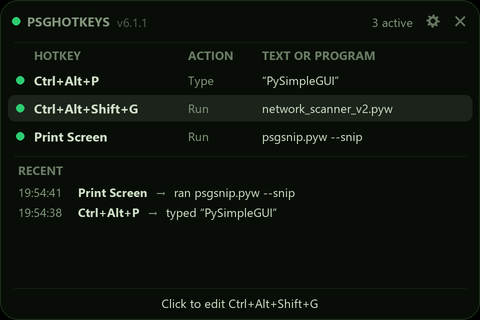
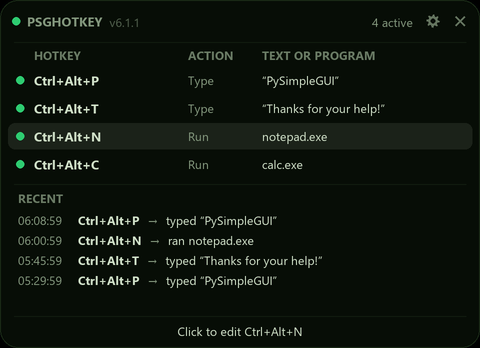
New screenshots

diff --git a/psghotkey/psghotkey.py b/psghotkey/psghotkey.py
@@ -3,7 +3,7 @@ import keyboard
 import ctypes
 import socket, threading, time
 import tkinter as tk
-import os, shlex, sys
+import os, shlex, sys, tempfile
 import base64, io, math, traceback
 from collections import deque
 from typing import List, Any, Dict, ClassVar
@@ -43,6 +43,7 @@ r"""
     to edit it.  Right-click for the menu:  Hotkeys..., Theme (the widgets' 32), Brightness..., Edit Me, Version, Exit.
     The tray icon:  click = show / hide the card,  right-click = the same menu.  Closing the card (its x or Esc) minimizes it to the tray
     (right-click > Minimize to tray when closed turns that off).  You can add your own items to the menu in make_menu() and handle them in the event loop.
+    psghotkey --demo shows example hotkeys, for a screenshot - it registers nothing, leaves your settings alone and doesn't stop a running psghotkey.
 
     On Windows each hotkey is registered with Windows itself (RegisterHotKey), so Windows does the matching, the key combination is
     swallowed instead of reaching the program underneath, and there is no keyboard hook for Windows to silently drop after a sleep,
@@ -129,6 +130,8 @@ Changelog since last major release
                         Only the hotkey entries are rewritten now.
 6.1.1   03-Nov-2026     Claude: A program that can't be launched shows in RECENT in red (it was only printed, and a .pyw has no console).
                         main() shows a crash with popup_error_with_traceback.  Right-click > Versions is Version.
+6.1.1   04-Nov-2026     Claude: --demo shows example hotkeys and a made-up RECENT list, for screenshots: it registers nothing, keeps its settings in
+                        the temp folder (your psghotkey.json isn't touched), has no tray icon, and a running psghotkey keeps running.
 """
 
 
@@ -141,6 +144,10 @@ hotkey_info = {}        # maps a hotkey string to its (action, value) - what the
 SETTINGS_FILENAME = 'psghotkey.json'    # the hotkeys AND the program's own settings (theme, tray, where the card is) - save_hotkey_list() keeps the latter
 ACTION_TEXT = 'Insert text'
 ACTION_LAUNCH = 'Launch program'
+DEMO = '--demo' in sys.argv              # psghotkey --demo: example hotkeys for a screenshot - nothing of yours is read, changed or stopped
+DEMO_HOTKEYS = [('ctrl+alt+p', ACTION_TEXT, 'PySimpleGUI'), ('ctrl+alt+t', ACTION_TEXT, 'Thanks for your help!'), ('ctrl+alt+n', ACTION_LAUNCH, 'notepad.exe'),
+                ('ctrl+alt+c', ACTION_LAUNCH, 'calc.exe')]
+DEMO_FOLDER = os.path.join(tempfile.gettempdir(), 'psghotkey_demo')     # the demo's own psghotkey.json (its theme and place are kept there)
 ACTIONS = (ACTION_TEXT, ACTION_LAUNCH)
 ACTION_SHORT = {ACTION_TEXT: 'Type', ACTION_LAUNCH: 'Run'}       # the card's ACTION column
 PYTHON_NAMES = ('python', 'python.exe', 'pythonw', 'pythonw.exe', 'python3', 'py', 'py.exe', 'pyw', 'pyw.exe')     # 'pythonw x.pyw' shows as x.pyw
@@ -392,6 +399,8 @@ def unregister_hotkeys():
 def register_hotkeys():
     """ Register every hotkey in hotkey_dict - with Windows (RegisterHotKey) on Windows, with the keyboard package elsewhere.
         Returns the list of hotkeys that were refused (bad key names, or already taken by another program). """
+    if DEMO:
+        return []                                       # the demo registers nothing: a running psghotkey keeps its hotkeys
     if sys.platform == 'win32':
         if G.win_hotkeys is None:
             G.win_hotkeys = WindowsHotkeys()
@@ -509,7 +518,7 @@ K_STATUS = '-STATUS-'
 
 def get_settings() -> sg.UserSettings:
     if G.hotkey_settings is None:
-        G.hotkey_settings = sg.UserSettings(SETTINGS_FILENAME)
+        G.hotkey_settings = sg.UserSettings(SETTINGS_FILENAME, path=DEMO_FOLDER) if DEMO else sg.UserSettings(SETTINGS_FILENAME)
     return G.hotkey_settings
 
 
@@ -1305,6 +1314,8 @@ def card_height():
 
 def summary():
     """ The bottom line when the mouse isn't over anything and there's no message """
+    if DEMO:
+        return 'demo - example hotkeys, nothing is registered   ·   right-click for the menu'
     n = len(hotkey_info)
     if not n:
         return 'Click the gear to add your first hotkey'
@@ -1851,21 +1862,33 @@ def brightness_panel(card, keep_going):
 # --- end BRIGHTNESS ---
 
 
+def demo_settings():
+    """ --demo: the example hotkeys into the demo's own settings file, and a few made-up lines for RECENT """
+    save_hotkey_list(DEMO_HOTKEYS)
+    for minutes, hotkey in ((3, 'ctrl+alt+p'), (11, 'ctrl+alt+n'), (26, 'ctrl+alt+t'), (42, 'ctrl+alt+p')):
+        action, value = next((a, v) for h, a, v in DEMO_HOTKEYS if h == hotkey)
+        what = f'ran {short_command(value)}' if action == ACTION_LAUNCH else f'typed {what_it_does(action, value)}'
+        G.recent.append((time.strftime('%H:%M:%S', time.localtime(time.time() - minutes * 60)), hotkey, what, None))
+
+
 def run():
-    instance_sock, replaced_running_copy = claim_single_instance(INSTANCE_PORT)       # a previous copy, if any, is told to exit before we start
+    instance_sock, replaced_running_copy = (None, False) if DEMO else claim_single_instance(INSTANCE_PORT)    # a previous copy is told to exit (not by the demo)
     sg.set_options(dpi_awareness=True, font=(FONT_UI, 10))                            # dpi aware: the card is drawn at the screen's own scale, so it's sharp
     settings = get_settings()
+    if DEMO:
+        demo_settings()
     G.theme = settings.get(K_THEME, 'Toybox')
     G.theme = OLD_THEME_NAMES.get(G.theme, G.theme if G.theme in THEMES else 'Toybox')
     G.bright = settings.get(K_BRIGHT, 0)
     G.bright = G.bright if G.bright in BRIGHT_LEVELS else 0
-    Tray.use = bool(SystemTray) and settings.get(K_MIN_TO_TRAY, True)
+    Tray.use = bool(SystemTray) and settings.get(K_MIN_TO_TRAY, True) and not DEMO
     apply_sg_theme()
     build_hotkey_dict()
 
     menu_bg, menu_fg = menu_colors()
     layout = [[sg.Image(data=render(), key=K_IMAGE, background_color=TRANSPARENT, pad=(0, 0))]]
-    window = sg.Window(APP_NAME, layout, no_titlebar=True, grab_anywhere=True, keep_on_top=True, margins=(0, 0), element_padding=(0, 0), background_color=TRANSPARENT,
+    title = f'{APP_NAME} - demo' if DEMO else APP_NAME
+    window = sg.Window(title, layout, no_titlebar=True, grab_anywhere=True, keep_on_top=True, margins=(0, 0), element_padding=(0, 0), background_color=TRANSPARENT,
                        transparent_color=TRANSPARENT if SEE_THROUGH else None, alpha_channel=0, icon=window_icon(), finalize=True, enable_close_attempted_event=True,
                        right_click_menu=make_menu(), right_click_menu_background_color=menu_bg, right_click_menu_text_color=menu_fg,
                        right_click_menu_selected_colors=('#ffffff', C_MENU_SEL), right_click_menu_font=FONT_MENU)

diff --git a/psghotkey/README.md b/psghotkey/README.md
@@ -8,7 +8,7 @@
 
 
 <p align="center">
-  <img src="https://raw.githubusercontent.com/PySimpleGUI/psghotkey/main/screenshot.png" width="480" height="320" alt="psghotkey">
+  <img src="https://raw.githubusercontent.com/PySimpleGUI/psghotkey/main/screenshot.png" width="480" height="348" alt="psghotkey">
 </p>
 
 ## Features
@@ -90,24 +90,8 @@ Copyright 2023-2026 PySimpleGUI.
 
 Licensed under LGPL3.
 
+
 ## Contributing
 
-We are happy to receive issues describing bug reports and feature
-requests! If your bug report relates to a security vulnerability,
-please do not file a public issue, and please instead reach out to us
-at issues@PySimpleGUI.com.
-
-We do not accept (and do not wish to receive) contributions of
-user-created or third-party code, including patches, pull requests, or
-code snippets incorporated into submitted issues. Please do not send
-us any such code! Bug reports and feature requests should not include
-any source code.
-
-If you nonetheless submit any user-created or third-party code to us,
-(1) you assign to us all rights and title in or relating to the code;
-and (2) to the extent any such assignment is not fully effective, you
-hereby grant to us a royalty-free, perpetual, irrevocable, worldwide,
-unlimited, sublicensable, transferrable license under all intellectual
-property rights embodied therein or relating thereto, to exploit the
-code in any manner we choose, including to incorporate the code into
-PySimpleGUI and to redistribute it under any terms at our discretion.
+I'm happy to receive issues describing bug reports and feature
+requests! The project does not accept pull requests.  

diff --git a/README.md b/README.md
@@ -8,7 +8,7 @@
 
 
 <p align="center">
-  <img src="https://raw.githubusercontent.com/PySimpleGUI/psghotkey/main/screenshot.png" width="480" height="320" alt="psghotkey">
+  <img src="https://raw.githubusercontent.com/PySimpleGUI/psghotkey/main/screenshot.png" width="480" height="348" alt="psghotkey">
 </p>
 
 ## Features
